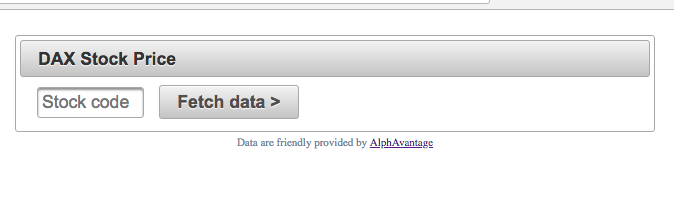
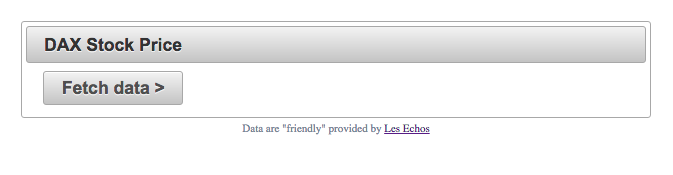
remove api access and replace it by simple html crawler to get the data from lesechos website

Changed region(s): [[0.0, 0.1143, 0.9673, 0.6], [0.0, 0.6286, 0.9673, 0.7714], [0.0, 0.0, 1.0, 0.0571]]

diff --git a/src/main/java/com/dritan/stockdata/DaxStockSupplier.java b/src/main/java/com/dritan/stockdata/DaxStockSupplier.java
@@ -1,79 +1,87 @@
 package com.dritan.stockdata;
 
-import com.google.gson.JsonElement;
-import com.google.gson.JsonObject;
-import com.google.gson.JsonParser;
+import org.joda.time.DateTime;
+import org.joda.time.format.DateTimeFormat;
+import org.jsoup.Jsoup;
+import org.jsoup.nodes.Document;
+import org.jsoup.select.Elements;
 
-import javax.ejb.Local;
 import javax.ejb.Stateless;
 import java.io.*;
-import java.net.HttpURLConnection;
-import java.net.URL;
-import java.text.DateFormat;
 import java.text.ParseException;
-import java.text.SimpleDateFormat;
-import java.util.*;
+import java.util.Arrays;
+import java.util.Date;
+import java.util.List;
 
 @Stateless
 public class DaxStockSupplier implements StockSupplier {
 
-    private final String AV_API_KEY = "X3P0HSFSYX0VD4AQ";
-    private final String AV_API_ENDPOINT = "https://www.alphavantage.co/query?function=TIME_SERIES_INTRADAY&symbol=%s&interval=1min&apikey=%s";
-    private final DateFormat DATE_FORMAT = new SimpleDateFormat("yyyy-MM-dd HH:mm:ss");
+    private final String DAX_CRAWL_URL =
+            "https://investir.lesechos.fr/cours/indice-dax-xetra,xetr,dax,de0008469008,isin.html";
 
     @Override
-    public Stock apply(final String code) {
-        if (code != null && !code.isEmpty()) {
-            final String url = buildUrl(code);
-            final String json = fetch(url);
-            try {
-                return getStockFromJson(code, json);
-            } catch (ParseException e) {
-                e.printStackTrace();
-                return null;
-            }
-        }
-        return null;
-    }
-
-    private String buildUrl(final String code) {
-        return String.format(AV_API_ENDPOINT, code, AV_API_KEY);
-    }
-
-    private Stock getStockFromJson(final String code, final String json) throws ParseException {
-        if (json == null) {
-            return null;
-        }
-        JsonParser parser = new JsonParser();
-        final JsonObject object = parser.parse(json).getAsJsonObject();
-        if (object.has("Time Series (1min)")) {
-            final JsonObject timeSeries = object.getAsJsonObject("Time Series (1min)");
-            final Iterator<Map.Entry<String, JsonElement>> iterator = timeSeries.entrySet().iterator();
-            if (iterator.hasNext()) {
-                final Map.Entry<String, JsonElement> next = iterator.next();
-                final Date date = DATE_FORMAT.parse(next.getKey());
-                final Double value = next.getValue().getAsJsonObject().get("1. open").getAsDouble();
-                return new Stock(code, date, value);
-            }
-        }
-        return null;
-    }
-
-    private String fetch(final String url) {
+    public Stock get() {
         try {
-            final URL endpointUrl = new URL(url);
-            final HttpURLConnection connection = (HttpURLConnection) endpointUrl.openConnection();
-            connection.setRequestMethod("GET");
-            final BufferedReader reader = new BufferedReader(new InputStreamReader(connection.getInputStream()));
-            final StringBuilder jsonBuilder = new StringBuilder();
-            String line;
-            while ((line = reader.readLine()) != null) {
-                jsonBuilder.append(line);
-            }
-            return jsonBuilder.toString();
-        } catch (IOException e) {
+            final Document document = Jsoup.connect(DAX_CRAWL_URL).get();
+            final Double price = parsePrice(document);
+            final Date date = parseDate(document);
+            return new Stock("DAX", date, price);
+        } catch (IOException | ParseException e) {
             e.printStackTrace();
-            return null;
         }
+        return null;
+    }
+
+    private Double parsePrice(final Document document) {
+        final Elements elements = document.getElementsByAttributeValue("data-field", "valorisationHeaderFiche");
+        if (elements.size() > 0) {
+            final String text = elements.get(0).ownText();
+            if (text != null && !text.isEmpty()) {
+                return Double.valueOf(
+                        text.replace(" ", "")
+                                .replace(",", ".")
+                );
+            }
+        }
+        return null;
+    }
+
+    private Date parseDate(final Document document) throws ParseException {
+        DateTime date = DateTime.now();
+        final Elements dayElements = document.getElementsByAttributeValue("data-field", "jourHeaderFiche");
+        if (dayElements.size() > 0) {
+            final String dayText = dayElements.get(0).ownText();
+            if (dayText != null && !dayText.isEmpty()) {
+                date = DateTime.parse(dayText, DateTimeFormat.forPattern("dd/MM/yy"));
+            }
+        }
+        final Elements timeElements = document.getElementsByAttributeValue("data-field", "heureSecondesHeaderFiche");
+        if (timeElements.size() > 0) {
+            final String timeText = timeElements.get(0).ownText();
+            if (timeText != null && !timeText.isEmpty()) {
+                List<String> parts = Arrays.asList(timeText.split("\\s"));
+                final DateTime time = parseDateParts(parts);
+                return new DateTime(date)
+                        .withTime(
+                            time.getHourOfDay(),
+                            time.getMinuteOfHour(),
+                            time.getSecondOfMinute(),
+                            time.getMillisOfSecond()
+                        )
+                    .toDate();
+            }
+        }
+        return date.toDate();
+    }
+
+    private DateTime parseDateParts(final List<String> parts) {
+        return DateTime.parse(
+                String.format("%d:%d:%d",
+                        Integer.decode(parts.get(0).substring(0, 2)),
+                        Integer.decode(parts.get(1).substring(0, 2)),
+                        Integer.decode(parts.get(2).substring(0, 2))
+                ),
+                DateTimeFormat.forPattern("HH:mm:ss")
+        );
     }
 }

diff --git a/src/main/java/com/dritan/stockdata/StockForm.java b/src/main/java/com/dritan/stockdata/StockForm.java
@@ -10,36 +10,17 @@ public class StockForm {
 
     @EJB
     private StockSupplier supplier;
-
-    private String code;
     private Stock stock;
 
     public void onFetchData() {
-        System.out.println("on fetch data code = " + code);
-        stock = supplier.apply(code);
-        if (stock != null) {
-            System.out.println("value=" + stock.getValue());
-        }
+        stock = supplier.get();
     }
 
     public boolean isRenderable() {
         return stock != null;
     }
 
-    public String getCode() {
-        return code;
-    }
-
-    public void setCode(String code) {
-        this.code = code;
-    }
-
     public Stock getStock() {
-        if (stock != null) {
-            System.out.println("get stock=" + stock.getValue());
-        } else {
-            System.out.println("no stock");
-        }
         return stock;
     }
 }

diff --git a/src/main/java/com/dritan/stockdata/Stock.java b/src/main/java/com/dritan/stockdata/Stock.java
@@ -6,23 +6,19 @@ public class Stock {
 
     private String code;
     private Date date;
-    private double value;
+    private Double value;
 
-    public Stock(String code, Date date, double value) {
+    public Stock(final String code, final Date date, final Double value) {
         this.code = code;
         this.date = date;
         this.value = value;
-    }
-
-    public String getCode() {
-        return code;
     }
 
     public Date getDate() {
         return date;
     }
 
-    public double getValue() {
+    public Double getValue() {
         return value;
     }
 }

diff --git a/src/main/java/com/dritan/stockdata/StockSupplier.java b/src/main/java/com/dritan/stockdata/StockSupplier.java
@@ -2,8 +2,9 @@ package com.dritan.stockdata;
 
 import javax.ejb.Local;
 import java.util.function.Function;
+import java.util.function.Supplier;
 
 @Local
-public interface StockSupplier extends Function<String, Stock> {
+interface StockSupplier extends Supplier<Stock> {
 
 }
